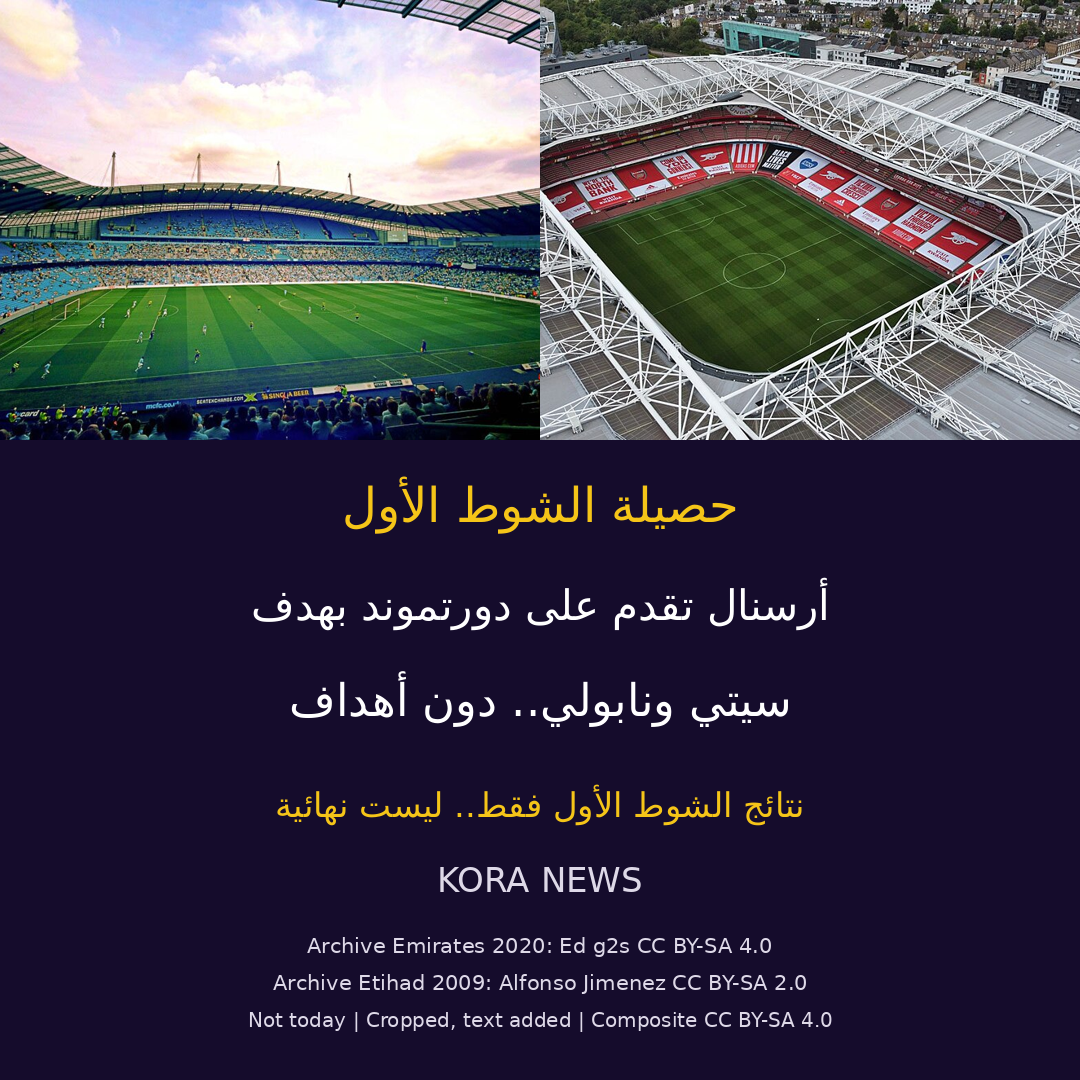
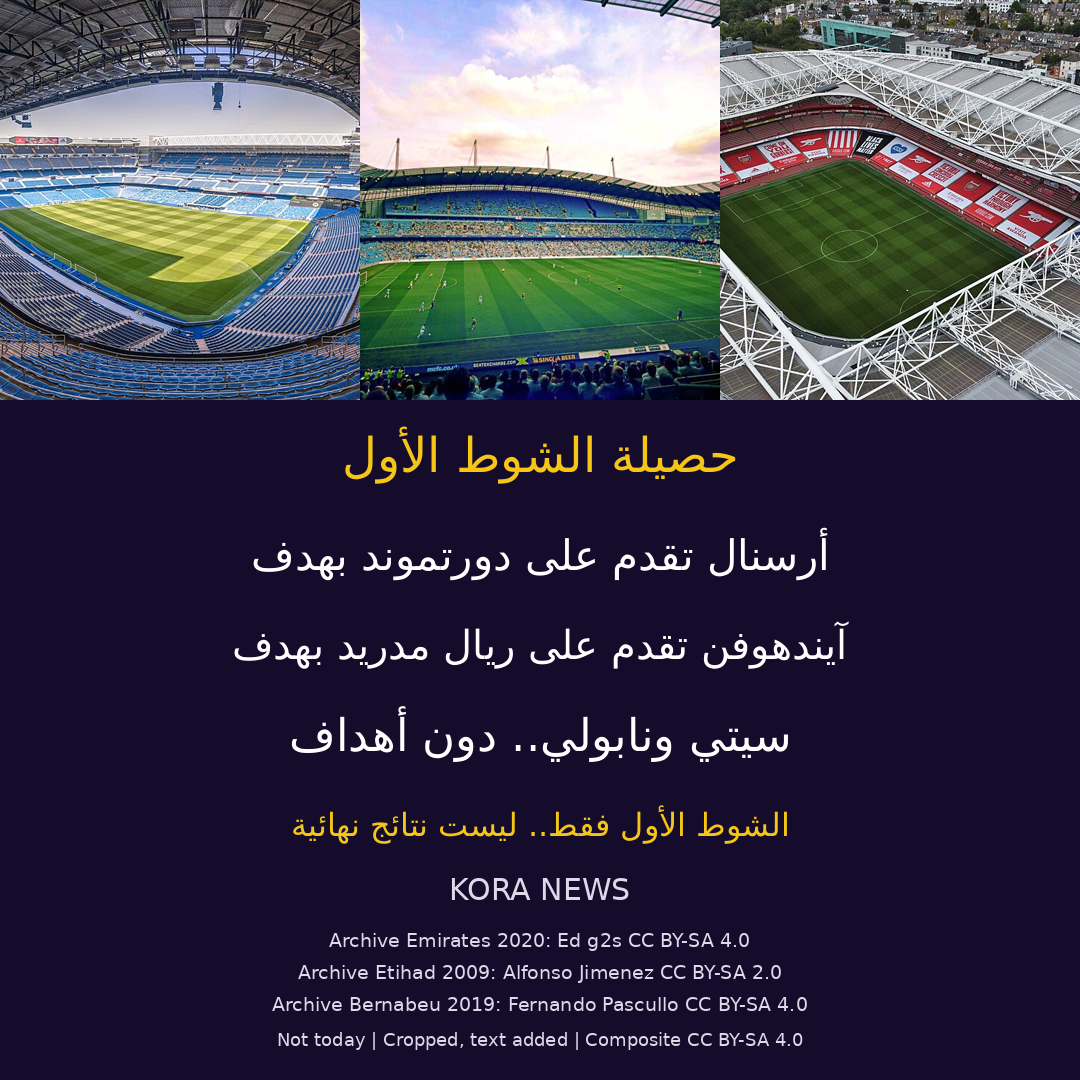
Add Madrid halftime and disclose Perisic timing discrepancy

diff --git a/posts/2026-11-24-arsenal-dortmund-man-city-napoli-first-half.md b/posts/2026-11-24-arsenal-dortmund-man-city-napoli-first-half.md
@@ -1,13 +1,13 @@
 ---
-title: حصيلة الشوط الأول: أرسنال يتقدم على دورتموند وتعادل سيتي ونابولي
+title: حصيلة الشوط الأول: تقدم أرسنال وآيندهوفن وتعادل سيتي ونابولي
 slug: arsenal-dortmund-man-city-napoli-first-half
-date: 2026-11-24T22:57:00+02:00
+date: 2026-11-24T23:02:00+02:00
 category: متابعة المباريات
-excerpt: أنهى أرسنال الشوط الأول متقدمًا على دورتموند بهدف جيوكيريس، بينما انتهى الشوط الأول بين مانشستر سيتي ونابولي دون أهداف. حصيلة مؤرخة للشوط الأول، وليست النتائج النهائية.
+excerpt: أنهى أرسنال الشوط الأول متقدمًا على دورتموند بهدف جيوكيريس، بينما انتهى الشوط الأول بين مانشستر سيتي ونابولي دون أهداف. وأنهى آيندهوفن الشوط متقدمًا على ريال مدريد بهدف بيريشيتش. حصيلة مؤرخة للشوط الأول، وليست النتائج النهائية.
 image: arsenal-city-first-half.png
 ---
 
-أنهى **أرسنال** الشوط الأول أمام **بوروسيا دورتموند متقدمًا بهدف دون رد**، بينما انتهى الشوط الأول بين **مانشستر سيتي ونابولي بالتعادل دون أهداف**، في مباراتي دوري أبطال أوروبا يوم **24 نوفمبر 2026**.
+أنهى **أرسنال** الشوط الأول أمام **بوروسيا دورتموند متقدمًا بهدف دون رد**، بينما انتهى الشوط الأول بين **مانشستر سيتي ونابولي بالتعادل دون أهداف**، في دوري أبطال أوروبا يوم **24 نوفمبر 2026**.
 
 ## أرسنال يتقدم بهدف جيوكيريس
 
@@ -17,9 +17,13 @@ image: arsenal-city-first-half.png
 
 انتهى الشوط الأول بين مانشستر سيتي ونابولي على ملعب الاتحاد دون أن يسجل أي فريق، وفق إعلان نهاية الشوط في موقع سيتي الرسمي وتغطية BBC Sport.
 
+## آيندهوفن يتقدم على ريال مدريد
+
+أنهى **آيندهوفن الشوط الأول أمام ريال مدريد متقدمًا بهدف دون رد** على ملعب سانتياجو برنابيو، بفضل ركلة جزاء نفذها **إيفان بيريشيتش**. أكدت BBC Sport وESPN وAS نتيجة نهاية الشوط. ولم نُدرج دقيقة الهدف لاختلاف ترقيمها بين المصادر.
+
 ## حصيلة الشوط الأول وليست نتيجة نهائية
 
-**هذه النتائج تخص نهاية الشوط الأول فقط، ولا تعني أن المباراتين لا تزالان في الاستراحة لحظة قراءة الخبر.** راجعت كورة نيوز التغطية عند **22:55 بتوقيت القاهرة**. نشرت BBC إعلان نهاية الشوط لأرسنال عند **20:46 غرينتش، أي 22:46 بالقاهرة**، ولسيتي عند **20:47 غرينتش، أي 22:47 بالقاهرة**.
+**هذه النتائج تخص نهاية الشوط الأول فقط، ولا تعني أن المباريات لا تزال في الاستراحة لحظة قراءة الخبر.** راجعت كورة نيوز تغطيتي أرسنال وسيتي عند **22:55 بتوقيت القاهرة**، ثم نتيجة الشوط الأول في مدريد عند **23:00 بتوقيت القاهرة**. نشرت BBC إعلان نهاية الشوط لأرسنال عند **20:46 غرينتش، أي 22:46 بالقاهرة**، ولسيتي عند **20:47 غرينتش، أي 22:47 بالقاهرة**. وأعلنت نهاية الشوط في مدريد عند **20:49 غرينتش، أي 22:49 بالقاهرة**، بفاصل نحو 11 دقيقة عن المراجعة.
 
 لا نقدم هنا نتيجة نهائية أو تحديثًا للدقيقة الحالية، نظرًا للفاصل بين توقيت الحدث ووصول التغذية.
 
@@ -29,6 +33,11 @@ image: arsenal-city-first-half.png
 - [TNT Sports: أرسنال ودورتموند، إعلان نهاية الشوط الأول](https://www.tntsports.co.uk/football/champions-league/2026-2027/arsenal-borussia-dortmund_mtc21878628/live-commentary.shtml).
 - [مانشستر سيتي: مركز المباراة أمام نابولي](https://www.mancity.com/matchday/fixtures/mens/2026/champions-league/man-city-v-napoli-24-nov-2026?page=Commentary).
 
+- [ESPN: ريال مدريد وآيندهوفن](https://www.espn.com/soccer/match/_/gameId/401915298).
+- [AS: نهاية الشوط الأول في مدريد](https://en.as.com/soccer/real-madrid-vs-psv-eindhoven-live-online-score-stats-goals-updates-champions-league-202627-f202611-n/).
+
 ## الصور وحقوق الاستخدام
 
-الصورتان **أرشيفيتان وليستا من مباراتي اليوم**. صورة الإمارات من **11 يوليو 2020**، تصوير **Ed g2s**، عبر [Wikimedia Commons](https://commons.wikimedia.org/wiki/File:Emirates_Stadium_aerial_2020-07.jpg)، بترخيص [CC BY-SA 4.0](https://creativecommons.org/licenses/by-sa/4.0/). وصورة ملعب الاتحاد من **8 أغسطس 2009**، تصوير **Alfonso Jimenez**، عبر [Wikimedia Commons](https://commons.wikimedia.org/wiki/File:City_of_Manchester_Stadium_East_Stand.jpg)، بترخيص [CC BY-SA 2.0](https://creativecommons.org/licenses/by-sa/2.0/). قُصت الصورتان وغُير مقاسهما، وجُمعتا مع النص والتصميم وهوية كورة نيوز. التصميم المجمع متاح بترخيص CC BY-SA 4.0.
+الصور الثلاث **أرشيفية وليست من مباريات اليوم**. صورة الإمارات من **11 يوليو 2020**، تصوير **Ed g2s**، عبر [Wikimedia Commons](https://commons.wikimedia.org/wiki/File:Emirates_Stadium_aerial_2020-07.jpg)، بترخيص [CC BY-SA 4.0](https://creativecommons.org/licenses/by-sa/4.0/). وصورة ملعب الاتحاد من **8 أغسطس 2009**، تصوير **Alfonso Jimenez**، عبر [Wikimedia Commons](https://commons.wikimedia.org/wiki/File:City_of_Manchester_Stadium_East_Stand.jpg)، بترخيص [CC BY-SA 2.0](https://creativecommons.org/licenses/by-sa/2.0/). قُصت الصورتان وغُير مقاسهما، وجُمعتا مع النص والتصميم وهوية كورة نيوز. التصميم المجمع متاح بترخيص CC BY-SA 4.0.
+
+أضيفت صورة أرشيفية لملعب سانتياجو برنابيو من **30 يوليو 2019**، تصوير **Fernando Pascullo**، عبر [Wikimedia Commons](https://commons.wikimedia.org/wiki/File:Panoramic_santiago_bernabeu.jpg)، بترخيص [CC BY-SA 4.0](https://creativecommons.org/licenses/by-sa/4.0/). قُصت وأُضيفت إلى التصميم المجمع، وليست من مباراة اليوم.

diff --git a/posts/2026-11-24-real-madrid-psv-perisic-penalty-goal.md b/posts/2026-11-24-real-madrid-psv-perisic-penalty-goal.md
@@ -3,11 +3,11 @@ title: بيريشيتش يفتتح التسجيل لآيندهوفن أمام ر
 slug: real-madrid-psv-perisic-penalty-goal
 date: 2026-11-24T22:43:00+02:00
 category: متابعة المباريات
-excerpt: سجل إيفان بيريشيتش هدف تقدم آيندهوفن أمام ريال مدريد من ركلة جزاء في الدقيقة 32. خبر مؤرخ عن الحدث من BBC وAD، وليس تحديثًا للنتيجة الحالية أو النهائية.
+excerpt: سجل إيفان بيريشيتش هدف تقدم آيندهوفن أمام ريال مدريد من ركلة جزاء. دقيقة الهدف 32 في BBC وAD وESPN مقابل 31 في AS. خبر مؤرخ عن الحدث من BBC وAD، وليس تحديثًا للنتيجة الحالية أو النهائية.
 image: real-madrid-psv-perisic-penalty-goal.png
 ---
 
-سجل **إيفان بيريشيتش** هدف تقدم **آيندهوفن أمام ريال مدريد** من **ركلة جزاء في الدقيقة 32**، خلال مواجهة دوري أبطال أوروبا على ملعب سانتياجو برنابيو يوم **24 نوفمبر 2026**.
+سجل **إيفان بيريشيتش** هدف تقدم **آيندهوفن أمام ريال مدريد** من **ركلة جزاء، أدرجتها BBC وAD في الدقيقة 32**، خلال مواجهة دوري أبطال أوروبا على ملعب سانتياجو برنابيو يوم **24 نوفمبر 2026**.
 
 وأكدت تغطيتا **BBC Sport وAD** تنفيذ بيريشيتش الركلة بنجاح، ليتقدم الفريق الهولندي بهدف دون رد في تلك اللحظة.
 
@@ -21,10 +21,19 @@ image: real-madrid-psv-perisic-penalty-goal.png
 
 وتضمنت صفحة AD أحداث الدقيقة 40 عند المراجعة. لا تعني الدقيقة 32 المذكورة هنا أنها الدقيقة الحالية للقاء، ولا نعرض تقدم آيندهوفن وقت الهدف باعتباره نتيجة نهائية.
 
+## اختلاف ترقيم دقيقة الهدف
+
+**تحديث عند 23:00 بتوقيت القاهرة:** تعرض ESPN الهدف في الدقيقة **32**، بينما تعرضه AS في الدقيقة **31**. نُبقي رقم 32 منسوبًا إلى المصادر التي أوردته، ولا نقدمه كتوقيت متفق عليه بين جميع التغطيات. انتهى الشوط الأول بتقدم آيندهوفن بهدف دون رد، وفق BBC وESPN وAS.
+
+[حصيلة الشوط الأول للمباريات](https://kora-news.github.io/posts/arsenal-dortmund-man-city-napoli-first-half.html).
+
 ## المصادر
 
 - [BBC Sport: هدف بيريشيتش من ركلة جزاء أمام ريال مدريد](https://www.bbc.com/sport/football/live/cwly0rk8v8mrt).
 - [AD: التغطية المباشرة لريال مدريد وآيندهوفن](https://www.ad.nl/regiosport-eindhoven/live-psv-ontsnapt-na-drie-goede-kansen-real-madrid-raakt-de-kruising-en-speelt-een-counter-slecht-uit~a14d999d/).
+
+- [ESPN: بيانات المباراة والهدف](https://www.espn.com/soccer/match/_/gameId/401915298).
+- [AS: بيانات المباراة والهدف](https://en.as.com/soccer/real-madrid-vs-psv-eindhoven-live-online-score-stats-goals-updates-champions-league-202627-f202611-n/).
 
 ## الصورة وحقوق الاستخدام
 
